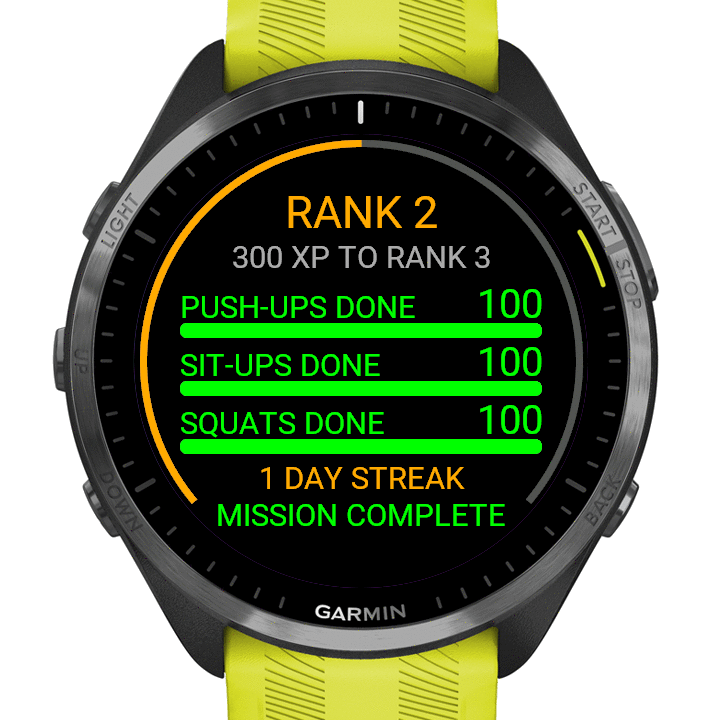
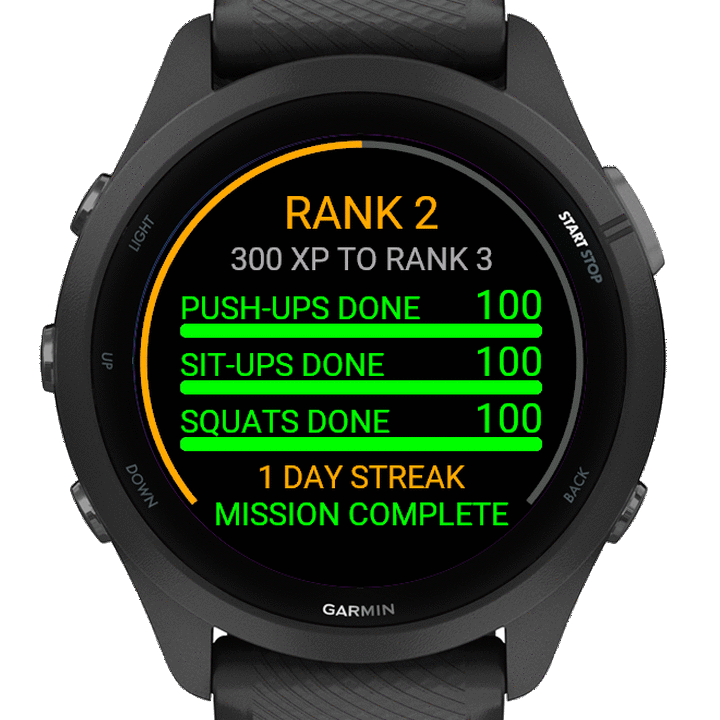
feat(HeroSet): listing shots on five different watches, shared framing
FR970, FR965, Epix Pro, FR265 and Instinct E, framed by
docker/frame_listing.sh from display captures in listing/screens/ and
listing/src/frames.txt. The window-crop pipeline (tools/frame_all.sh,
frame_shots.sh, listing/src/window/) is replaced. Hero re-rendered.

Claude-Session: https://claude.ai/code/session_01VBnXC1zGyaFSzHFynsMi4H

diff --git a/HeroSet/listing/screenshots.md b/HeroSet/listing/screenshots.md
@@ -4,12 +4,14 @@ Status 2026-10-04 (screen 2 and the hero retaken later the same day with a heart
 
 ## The set
 
+**2026-10-05: a different watch per image (owner), framed by the shared `docker/frame_listing.sh`** from the display captures in `listing/screens/` (copied from `bin/drive-<device>-<step>.png`) and `listing/src/frames.txt`. Captured with `drive_screens.sh` on fr970 (`... home`), epix2pro47mm (`... all`, step `5b-up`) and fr265 (`100,100,100 ... home`); screen 2 is the fr965 `act` run and 5 the instincte45mm one. On the Epix Pro the review's `+24` stays in `FONT_LARGE` (no number font fits that band there). A fenix847mm run stayed on the glance (the first START did not open the app) and was not used.
+
 | # | File | Device | State | Seed (push-ups, sit-ups, squats) |
 |---|---|---|---|---|
-| 1 | `screens-framed/1-dashboard.png` | fr965 | the home screen, rank 1, three bars, `NO STREAK YET` | 60, 45, 30 |
+| 1 | `screens-framed/1-dashboard.png` | fr970 | the home screen, rank 1, three bars, `NO STREAK YET` | 60, 45, 30 |
 | 2 | `screens-framed/2-counting.png` | fr965 | push-ups set, 23 counted, `TODAY 83/100`, `00:28 HR 123 CAL --` (see below) | 60, 45, 30 |
-| 3 | `screens-framed/3-review.png` | fr965 | review: `DETECTED 23`, adjusted with UP to `+24`, `TODAY 84/100` | 60, 45, 30 |
-| 4 | `screens-framed/4-complete.png` | fr965 | `DAILY MISSION COMPLETE`, rank 2, `1 DAY STREAK` | 100, 100, 100 |
+| 3 | `screens-framed/3-review.png` | epix2pro47mm | review: `DETECTED 23`, adjusted with UP to `+24`, `TODAY 84/100` | 60, 45, 30 |
+| 4 | `screens-framed/4-complete.png` | fr265 | `DAILY MISSION COMPLETE`, rank 2, `1 DAY STREAK` | 100, 100, 100 |
 | 5 | `screens-framed/5-instinct.png` | **instincte45mm** | the same dashboard in black and white, XP ring in the round window | 60, 45, 30 |
 
 Why these: the owner's story (2026-10-04): the one-glance home screen, counting a set, review and adjust, saved or complete, plus an Instinct. 4 is the complete state, not the `+N SAVED` one (the hero used that before; complete is the reward and the streak starts). The Instinct is the **Instinct E 45 mm**: the Instinct 2 family and Descent G1 are not on Garmin's paid-app product list, so the paid listing is not sold there and no caption names them. Of the three paid Instinct products, the E 45 mm had the boldest text and the most room (E 40 mm and 3 Solar were looked at too). Not used: the menu, the saved screen, a touch watch (the 5-image cap).
@@ -30,13 +32,13 @@ Shot 2 (retaken 2026-10-04): the heart rate is from the simulator's own activity
 
    Each step writes `HeroSet/bin/drive-<device>-<step>.png` (the display) and `...-window.png` (the whole window; added to `drive_screens.sh` on 2026-10-04). Copy the window files used into `listing/src/window/` under the names in the table (`fr965-1-dashboard.png`, `fr965-2-counting.png`, `fr965-3-review.png`, `fr965-4-complete.png`, `instincte45mm-5-dashboard.png`); those are the sources of the framed images. `ONLY=home` stops after the home screen.
 
-2. **Frame** (ImageMagick, in the container's shots image): crop the skin out of the window, key the white background to transparent (flood fill from the corners, fuzz 6%), place on a 720x720 canvas centred on the display, 256 colours. Round watches 100%; the Instinct skin is small, so it is enlarged 160% (Lanczos, so its display is a little soft; native pixels are in `bin/drive-*.png`).
+2. **Frame**: copy the display captures used into `listing/screens/` under the upload names, list the watch for each in `listing/src/frames.txt`, then
 
    ```sh
-   CIQ_IMAGE=verden-ciq-shots:9.2.0 docker/run.sh HeroSet bash tools/frame_all.sh
+   CIQ_IMAGE=verden-ciq-shots:9.2.0 docker/run.sh HeroSet bash /ciq-docker/frame_listing.sh listing
    ```
 
-   It writes `listing/screens-framed/*.png`, `bin/preview.png` (the five on a dark card to judge the keyed edges) and prints `OVER 150 KB` for any file over the cap. The single-file tool is `tools/frame_shots.sh <device> <window.png> <out.png> [scale] [skin-width]`.
+   It pastes each capture under its watch's own simulator skin (`docker/frame_shot.sh`; no window capture needed any more), writes `listing/screens-framed/*.png` and `bin/framed-preview-listing.png`, and fails on a file over 150 KB. (Until 2026-10-04 this was `tools/frame_all.sh` cropping whole-window captures; replaced 2026-10-05, in git history.)
 
 ## Hero, cover, icons
 
@@ -52,7 +54,7 @@ HeroSet/tools/render_listing.sh
 
 ## Limits checked (2026-10-04)
 
-`stat` on the files, each under Garmin's cap: screens 90 to 113 KB (cap 150), cover 12 KB (cap 300), hero 287 KB (cap 2048); icons 1 and 2 KB; all pixel sizes read from the files (`file`, `identify`): 720x720 x5, 500x500, 1440x720, 128x128 x2. `frame_all.sh` also fails loudly on a screen over 150 KB.
+`stat` on the files, each under Garmin's cap: screens 92 to 145 KB (cap 150; re-framed 2026-10-05), cover 12 KB (cap 300), hero 287 KB (cap 2048); icons 1 and 2 KB; all pixel sizes read from the files (`file`, `identify`): 720x720 x5, 500x500, 1440x720, 128x128 x2. `docker/frame_listing.sh` also fails loudly on a screen over 150 KB.
 
 ## Honesty rules
 

diff --git a/HeroSet/listing/NOTES.md b/HeroSet/listing/NOTES.md
@@ -43,7 +43,7 @@ Saved page, 2026-09-19: Title 50, Description 4000, What's New 4000, App Version
 - **Hero** (`hero-1440x720.png`): the framed screens 1, 2 and 5 (two Forerunner 965, one Instinct E 45 mm), strap ends faded, on the flat amber ground (287 KB). Source `src/hero.html`.
 - **Cover** (`cover-500-designed.png`, 500×500, flat amber, 12 KB): source `src/cover.html`.
 - **Device icons:** the launcher icon's shield (current pixel-grid shape) on black, `src/icon.html`; the 64-colour one is the same render snapped by `src/quantize64.py`.
-- All three, and the icons, are rendered by `../tools/render_listing.sh`; the screens by `../tools/drive_screens.sh` + `../tools/frame_all.sh` ([`screenshots.md`](screenshots.md)). The shield was redrawn on 2026-10-04 to match the launcher icon (it had the heavier pre-pixel-grid shape): a look change for the owner to approve.
+- All three, and the icons, are rendered by `../tools/render_listing.sh`; the screens by `../tools/drive_screens.sh` + `docker/frame_listing.sh` (`src/frames.txt`) ([`screenshots.md`](screenshots.md)). The shield was redrawn on 2026-10-04 to match the launcher icon (it had the heavier pre-pixel-grid shape): a look change for the owner to approve.
 
 ## What's New: history and copy rules
 
